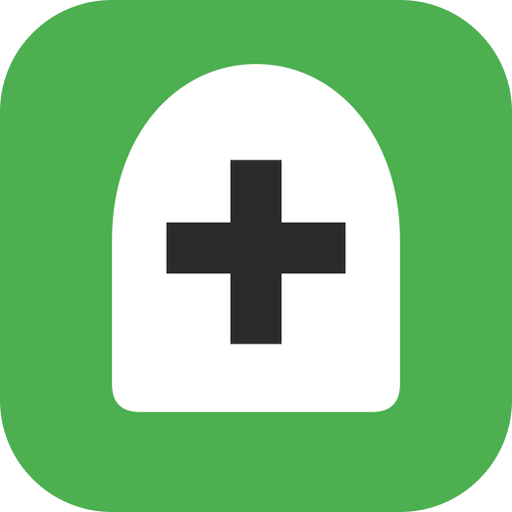
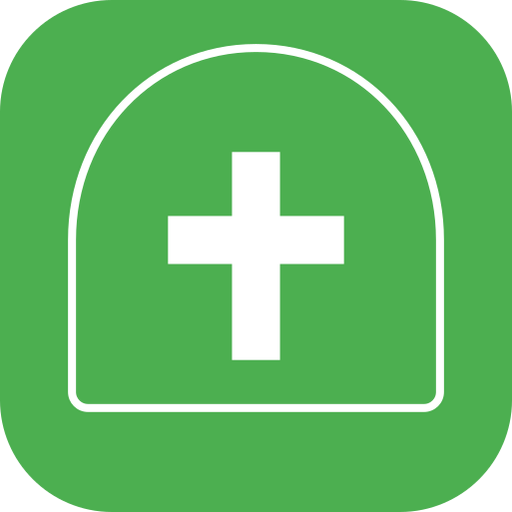
로고를 초록+흰색 2색 아웃라인 스타일로 되돌림
채운 흰색 도형 + 검정 십자가 버전이 참고 이미지와 다르다는
피드백 반영. 단일 흰색 아치 외곽선(초록 배경 비침) + 흰색
십자가로, 초록/흰색 두 가지 색으로만 구성.

diff --git a/app/components/Header.tsx b/app/components/Header.tsx
@@ -25,11 +25,14 @@ export default function Header() {
       <div style={s.logo}>
         <svg viewBox="0 0 64 64" width={40} height={40}>
           <path
-            d="M14 48V30C14 17 22 8 32 8C42 8 50 17 50 30V48Q50 51.5 46.5 51.5H17.5Q14 51.5 14 48Z"
-            fill="white"
+            d="M32 6C19 6 9 16.5 9 30v19a2 2 0 0 0 2 2h42a2 2 0 0 0 2-2V30C55 16.5 45 6 32 6Z"
+            fill="none"
+            stroke="white"
+            strokeWidth="4.5"
+            strokeLinejoin="round"
           />
-          <rect x="28.8" y="20" width="6.4" height="23" fill="#2b2b2b" />
-          <rect x="20.8" y="27.8" width="22.4" height="6.4" fill="#2b2b2b" />
+          <rect x="29" y="19" width="6" height="26" fill="white" />
+          <rect x="21" y="27" width="22" height="6" fill="white" />
         </svg>
       </div>
       <div style={{ fontSize: 12, fontWeight: 700, color: colors.primary, marginBottom: 2 }}>